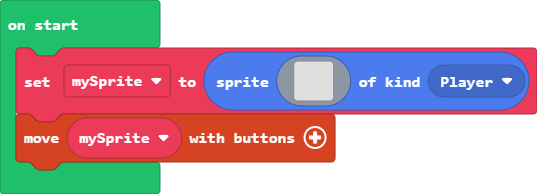
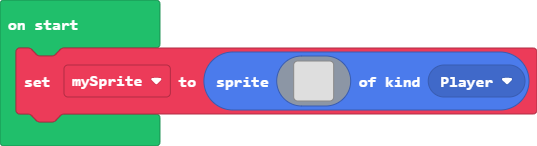
Update main.blocks, main.ts

diff --git a/main.ts b/main.ts
@@ -16,4 +16,3 @@ let mySprite = sprites.create(img`
     . . . . . . . . . . . . . . . . 
     . . . . . . . . . . . . . . . . 
     `, SpriteKind.Player)
-controller.moveSprite(mySprite)
